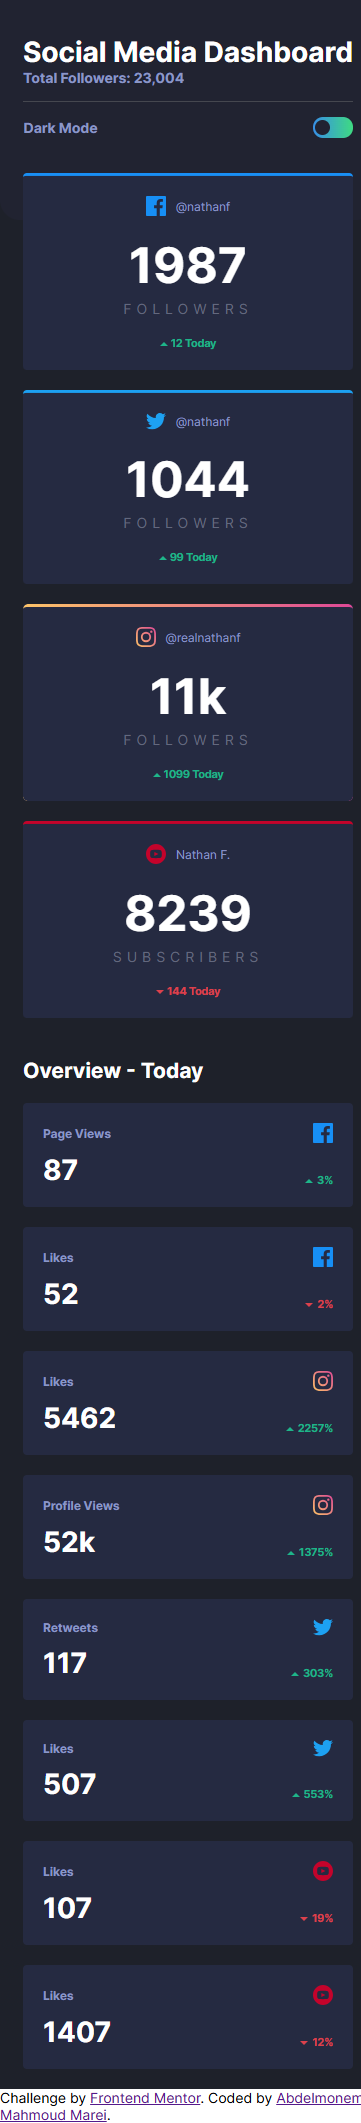
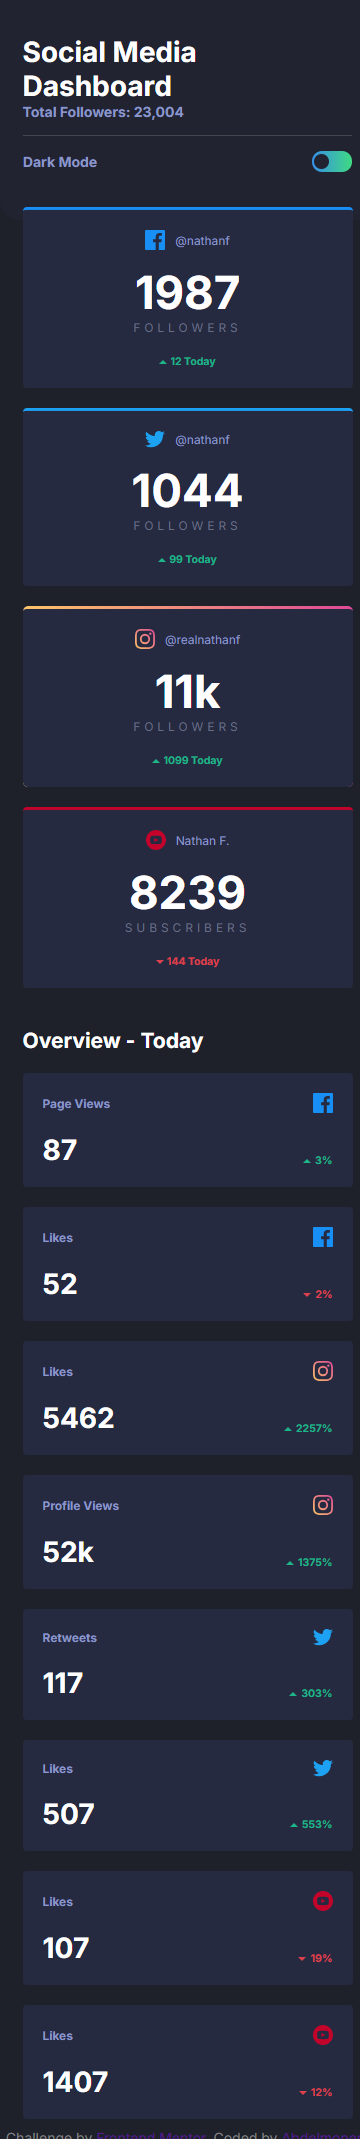
Update CSS and HTML Files
Update CSS file to fit screens less than 375px and change copyright section style, then update screenshots of live site

diff --git a/Junior/social-media-dashboard-with-theme-switcher-master/css/main.css b/Junior/social-media-dashboard-with-theme-switcher-master/css/main.css
@@ -145,7 +145,6 @@
     align-items: center;
     position: relative;
     padding: 20px;
-    gap: 5px;
     background-color: var(--Neutral-Light-Theme-Light-Grayish-Blue-Card-BG);
     border-radius: 4px;
     -webkit-border-radius: 4px;
@@ -210,7 +209,7 @@
     color: var(--Neutral-Dark-Theme-Desaturated-Blue-Text);
 }
 .container .dashboard-container .overall-grid >div >p:first-of-type{
-    font-size: 3.5rem;
+    font-size: 3.25rem;
     font-weight: 700;
 }
 .container.dark .dashboard-container .overall-grid >div >p:first-of-type{
@@ -226,7 +225,7 @@
     display: flex;
     align-items: center;
     gap: 3px;
-    margin-top: 15px;
+    margin-top: 20px;
 }
 .container .dashboard-container .overall-grid >div .change p{
     font-weight: 700;
@@ -340,5 +339,25 @@
     .container.dark .dashboard-container .dashboard-header .mode{
         border-top: 1px solid hsl(228deg 7% 29%);
     }
+}
+@media (max-width:360px) {
+    .container .dashboard-container{
+        max-width: 280px;
+    }
+    .container .dashboard-container .dashboard-header .mode{
+        gap: 150px;
+    }
+}
+/* Copyright Section */
+.container .attribution{
+    position: absolute;
+    width: 100%;
+    text-align: center;
+    background-color: var(--White);
+    padding: 10px 0;
+}
+.container.dark .attribution{
+    background-color: var(--Neutral-Dark-Theme-Very-Dark-Blue-BG);
+    color: gray;
 }
 /* End styles */

diff --git a/Junior/social-media-dashboard-with-theme-switcher-master/index.html b/Junior/social-media-dashboard-with-theme-switcher-master/index.html
@@ -9,7 +9,7 @@
   <link rel="preconnect" href="https://fonts.googleapis.com">
   <link rel="preconnect" href="https://fonts.gstatic.com" crossorigin>
   <link href="https://fonts.googleapis.com/css2?family=Inter:wght@400;700&display=swap" rel="stylesheet">
-  <title>Frontend Mentor | [Challenge Name Here]</title>
+  <title>Frontend Mentor | Social Media Dashboard With Theme Switcher Master</title>
 </head>
 <body>
   <div class="container">
@@ -184,10 +184,10 @@
         </div>
       </div>
     </div>
-  </div>
-  <div class="attribution">
-    Challenge by <a href="https://www.frontendmentor.io/challenges/social-media-dashboard-with-theme-switcher-6oY8ozp_H" target="_blank">Frontend Mentor</a>. 
-    Coded by <a href="https://www.frontendmentor.io/profile/AbdelmonemMarei" target="_blank">Abdelmonem Mahmoud Marei</a>.
+    <div class="attribution">
+      Challenge by <a href="https://www.frontendmentor.io/challenges/social-media-dashboard-with-theme-switcher-6oY8ozp_H" target="_blank">Frontend Mentor</a>. 
+      Coded by <a href="https://www.frontendmentor.io/profile/AbdelmonemMarei" target="_blank">Abdelmonem Mahmoud Marei</a>.
+    </div>
   </div>
   <script src="./js/main.js"></script>
 </body>
